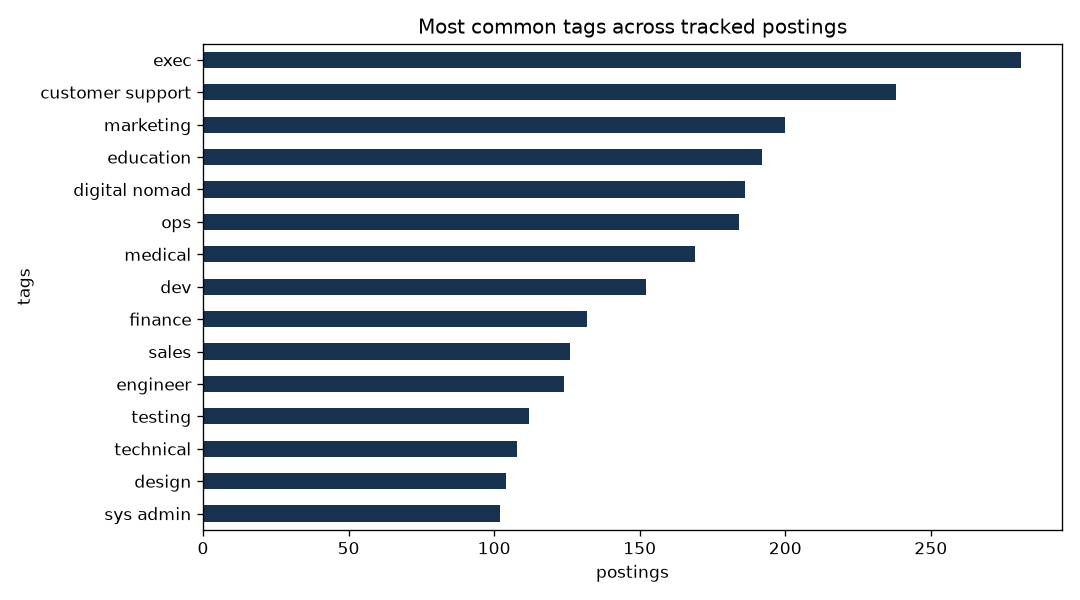
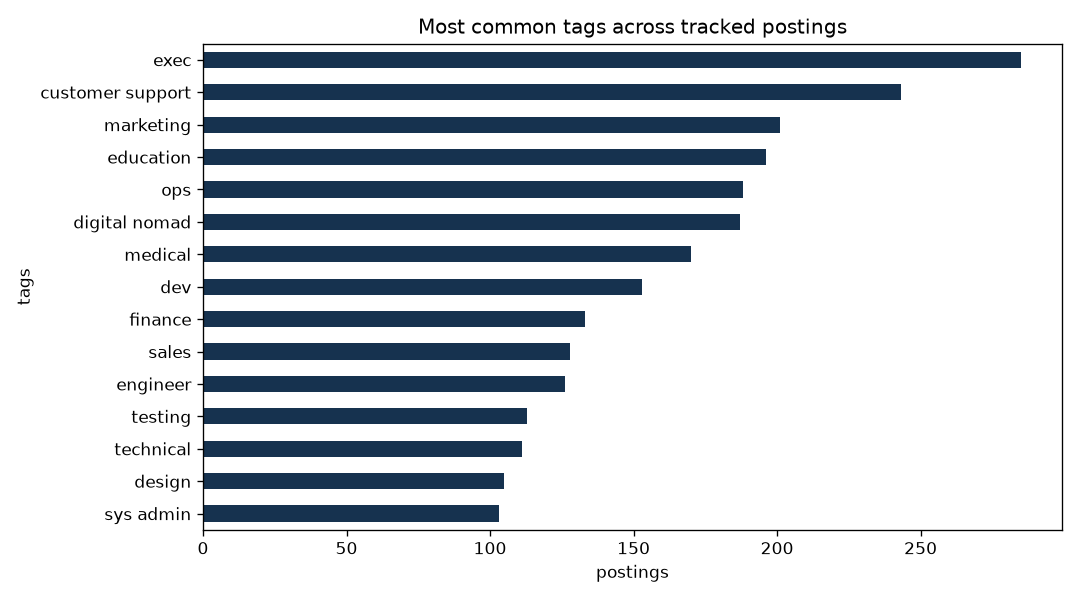
Daily data update

diff --git a/README.md b/README.md
@@ -13,13 +13,13 @@ reporting end to end.
 ## Dashboard
 
 <!-- dashboard:start -->
-*Last updated: 2026-10-30 18:24 UTC*
+*Last updated: 2026-10-31 17:30 UTC*
 
 | | |
 |---|---|
-| Postings tracked | 452 |
-| Companies | 375 |
-| New since last run | 2 |
+| Postings tracked | 458 |
+| Companies | 380 |
+| New since last run | 6 |
 | Data/ML-related share | 31% |
 
 ![Postings per week](reports/figures/postings_per_week.png)
